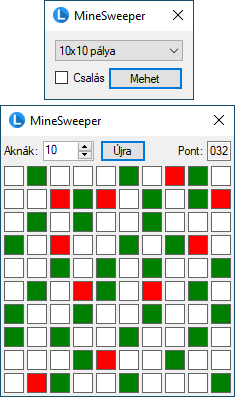
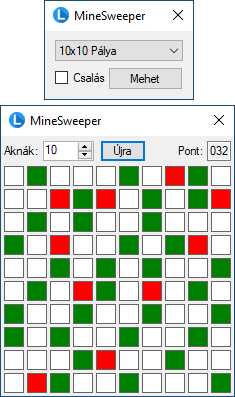
2020.04.03.

Changed region(s): [[0.3872, 0.0907, 0.7745, 0.2418]]

diff --git a/MineSweeperApp/MineSweeperApp/StartForm.cs b/MineSweeperApp/MineSweeperApp/StartForm.cs
@@ -26,7 +26,7 @@ namespace MineSweeperApp
             }
             for (int i = 10; i <= 32; i += 2)
             {
-                comboBox.Items.Add($"{i}x{i} pálya");
+                comboBox.Items.Add($"{i}x{i} Pálya");
             }
             comboBox.SelectedIndex = 0;
         }
